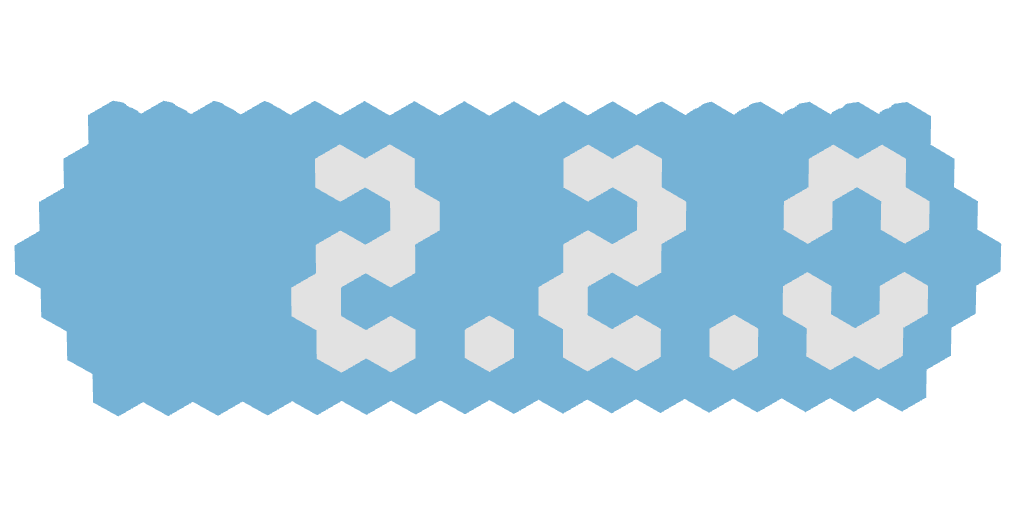
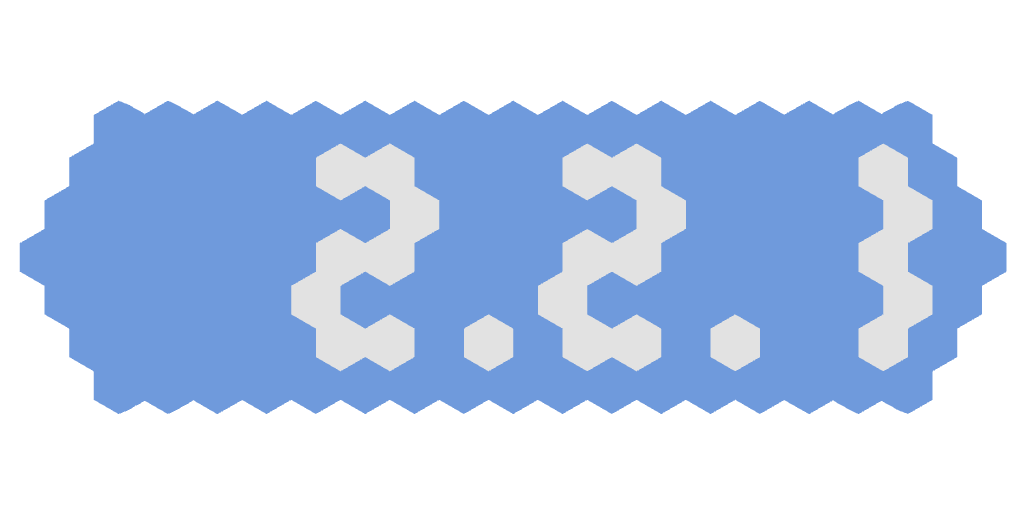
2.2.1

diff --git a/tools/simulation_v2/simulation.js b/tools/simulation_v2/simulation.js
@@ -2,11 +2,11 @@ const button_debug = document.getElementById('button_debug');
 const button_connect = document.getElementById('button_connect');
 const button_time = document.getElementById('button_time');
 
-// @version 2.2.0
+// @version 2.2.1
 
 const MAJOR = 2;
 const MINOR = 2;
-const PATCH = 0;
+const PATCH = 1;
 
 document.getElementById(
 	'info_version_software'
@@ -128,6 +128,24 @@ button_connect.onclick = async (event) => {
 				})
 				.then(() => {
 					console.log('Arduino connected.');
+
+					window.export = () => {
+						arduino.writeCommand(new WriteCommandConfig('v'));
+
+						setTimeout(() => {
+							document.querySelector('#content > canvas').toBlob((blob) => {
+								const link = URL.createObjectURL(blob);
+								const a = document.createElement('a');
+
+								a.setAttribute('download', 'header.png');
+								a.setAttribute('href', link);
+
+								document.body.appendChild(a);
+								a.click();
+								document.body.removeChild(a);
+							});
+						}, 500);
+					};
 
 					button_debug.onclick = () => {
 						menu_load(button_debug);

diff --git a/instructable.md b/instructable.md
@@ -1,0 +1,101 @@
+# NLT Panel (2.2.1)
+
+![header.png](/instructions/header.png '2.2.1')
+
+### Benodigdheden
+
+- Materialen
+  - 1,2 kg doorzichtig filament, verkrijgbaar via deze [link](https://www.prusa3d.com/product/clear-pla-filament-1kg/)
+  - MDF plaat van 25x70 cm
+  - LED-voeding van 5V (minimaal 6A)
+  - LED-strip van 5m (30LED/m)
+  - Arduino Uno
+  - DS1307 RTC-module
+- Gereedschappen
+  - Lasersnijmachine
+  - 3D printer (Prusa)
+
+### Installeren
+
+1. Installeer de repository (`git clone https://github.com/Prutsor/nlt-panel`)
+2. Installeer de dependencies (`npm install`)
+3. Start het programma
+   - Simulatie: `npm run tools.sim`
+   - SVG: `npm run tools.svg`
+
+### Bestanden
+
+- [Print Hexagons v6.stl](https://github.com/Prutsor/nlt-panel/raw/main/files/Print%20Hexagons%20v6.stl)
+- [20230305124813.svg](https://github.com/Prutsor/nlt-panel/raw/main/files/20230305124813.svg)
+- [Print Caps v9.stl](https://github.com/Prutsor/nlt-panel/raw/main/files/Print%20Caps%20v9.stl)
+- [nlt-panel.ino](https://github.com/Prutsor/nlt-panel/blob/main/nlt-panel.ino)
+
+### Stappenplan
+
+##### 1. Hexagons printen
+
+Om het project te starten moeten eerst de hexagons geprint worden. Hierbij wordt ongeveer 1,2 kg filament gebruikt en het zal ongeveer vijf dagen duren. Aangezien er zoveel hexagons geprint moeten worden, is het nodig om het proces op te splitsen. Daarom heb ik een [bestand](https://github.com/Prutsor/nlt-panel/raw/main/files/Print%20Hexagons%20v6.stl) gemaakt met 28 hexagons, die vijf keer geprint moeten worden. Terwijl de hexagons aan het printen zijn, kun je alvast verder met de volgende stappen.
+
+##### 2. Plaat snijden
+
+De volgende stap in het project is het lasersnijden van de houten plaat. Om het [bestand](https://github.com/Prutsor/nlt-panel/raw/main/files/20230305124813.svg) te maken, heb ik het SVG programma gebruikt (`npm run tools.svg`). Het programma zorgt voor een mooie rand rondom de plaat. **Let op:** prik nog geen hexagons in de plaat na het snijden, want de LED-strip moet nog worden opgeplakt. Hieronder is het bestand te zien, waarbij de rode lijnen de gaten voor de hexagons aangeven en de blauwe lijnen de rand van de plaat aangeven.
+
+![20230305124813.svg](/files/20230305124813.svg 'Bestand voor het snijden van de plaat')
+
+##### 3. LED-strip bevestigen
+
+Om de LED-strips op de plaat te bevestigen, moet je de strip in vijf delen knippen: 2x17, 2x18, 2x19 en 1x20 LED's. Het is belangrijk om ze op de juiste manier op de plaat te plaatsen om ervoor te zorgen dat ze goed werken. Hieronder vind je de juiste richtingen voor het plaatsen van de LED-strips op de plaat.
+
+![led-richting.png](/design/led-richting.png 'Richting van de LED-strips')
+
+Je moet de LED-strips aan elkaar solderen zoals aangegeven in de onderstaande afbeelding. Het is belangrijk om ervoor te zorgen dat de polariteit van de LED-strips correct is aangesloten om schade aan de strips te voorkomen.
+
+![led-solderen.png](/design/led-solderen.png 'Solderen van de LED-strips')
+
+<details>
+  <summary>Testen van de LED-strips</summary>
+
+Na het solderen van alle delen is het aan te raden om te controleren of de LED's correct werken voordat we doorgaan met het bevestigen van de hexagons. Om dit te doen, kun je de [strandtest](https://github.com/adafruit/Adafruit_NeoPixel/blob/master/examples/strandtest/strandtest.ino) van NeoPixel uploaden naar de Arduino en de LED-strips tijdelijk aansluiten op de Arduino. Het is belangrijk om de helderheid laag te houden, aangezien de Arduino een lage stroomsterkte heeft.
+
+</details>
+
+##### 4. Hexagons plaatsen
+
+Na het solderen (en eventueel testen) van de LED-strips is het tijd om de hexagons te plaatsen. Om schade aan de LED-strips te voorkomen, is het essentieel om voorzichtig te werk te gaan. Soms kan het lastig zijn om de hexagons op hun plaats te krijgen, in dat geval kan het helpen om de gaten iets groter te maken met schuurpapier.
+
+##### 5. Voeding aansluiten
+
+##### 6. Arduino en RTC aansluiten
+
+##### 7. Instellen
+
+Je moet eerst de [code](https://github.com/Prutsor/nlt-panel/blob/main/nlt-panel.ino) naar de Arduino uploaden voordat je de klok kunt instellen. Nadat de code succesvol is geüpload, open je het instelprogramma met het commando `npm run tools.sim`. Klik op de `Connect` knop rechtsboven in het programma om een Arduino te kiezen om mee te verbinden.
+
+![instellen-1.PNG](/instructions/instellen-1.PNG 'Klik op de `Connect` knop')
+
+Na het klikken op de `Connect` knop verschijnt er een menu waarin je de Arduino moet selecteren. Meestal kan het programma de Arduino automatisch detecteren en wordt de beschikbare poort aangegeven door de blauwe lijn naast de poort. Selecteer vervolgens de Arduino.
+
+![instellen-2.PNG](/instructions/instellen-2.PNG 'Selecteer de Arduino')
+
+Nadat je de Arduino hebt geselecteerd, kun je de verbinding controleren aan de blauwe lijn onder de `Connect` knop. Om te zien wat er op de klok zou moeten staan, klik je op de `Debug` knop. Om het instellen af te ronden, klik je op de `Set` knop bij de tijd in de configuratie. Hierdoor wordt de tijd van de gebruikte computer naar de klok gestuurd en blijft deze doortellen, zelfs als de klok uit staat. Zo hoef je nooit meer de tijd in te stellen.
+
+![instellen-2.PNG](/instructions/instellen-3.PNG 'Tijd instellen')
+
+##### 8. Bijwerken
+
+Om de klok bij te werken, volg je deze stappen:
+
+1. Voer het commando `git pull` uit om de meest recente versie van de code te downloaden.
+2. Upload de [bijgewerkte code](https://github.com/Prutsor/nlt-panel/blob/main/nlt-panel.ino) naar de Arduino.
+3. Stel de klok eventueel opnieuw in.
+
+<details>
+  <summary>Hoe weet ik of de klok up-to-date is?</summary>
+  
+  1. Voer het commando `git pull` uit om de meest recente versie van de code te downloaden.
+  2. Voer `npm run tools.sim` uit.
+  3. Klik op `Connect`
+  4. Selecteer de Arduino
+  5. Vergelijk de versies zoals in de onderstaande afbeelding:
+    ![updaten-1.PNG](/instructions/updaten-1.PNG 'Versies vergelijken')
+</details>
